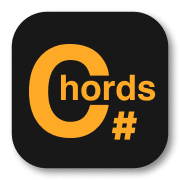
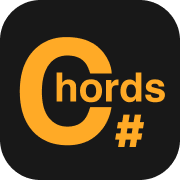
Updates

diff --git a/sw.js b/sw.js
@@ -1,1 +1,1 @@
-if(!self.define){let e,i={};const s=(s,n)=>(s=new URL(s+".js",n).href,i[s]||new Promise((i=>{if("document"in self){const e=document.createElement("script");e.src=s,e.onload=i,document.head.appendChild(e)}else e=s,importScripts(s),i()})).then((()=>{let e=i[s];if(!e)throw new Error(`Module ${s} didn’t register its module`);return e})));self.define=(n,r)=>{const t=e||("document"in self?document.currentScript.src:"")||location.href;if(i[t])return;let o={};const l=e=>s(e,t),c={module:{uri:t},exports:o,require:l};i[t]=Promise.all(n.map((e=>c[e]||l(e)))).then((e=>(r(...e),o)))}}define(["./workbox-5ffe50d4"],(function(e){"use strict";self.skipWaiting(),e.clientsClaim(),e.precacheAndRoute([{url:"404.html",revision:"725e0890ec316141128c754c049396fc"},{url:"assets/index-BB5WNJlu.css",revision:null},{url:"assets/index-DqNKStQ0.js",revision:null},{url:"index.html",revision:"6f8ea84c2d76ff55843b514f44d5b48b"},{url:"registerSW.js",revision:"6a678f2427ee8ae081667b7289d221f7"},{url:"manifest.webmanifest",revision:"c6541121ce6d95939ec7b48416c76c50"}],{}),e.cleanupOutdatedCaches(),e.registerRoute(new e.NavigationRoute(e.createHandlerBoundToURL("index.html")))}));
+if(!self.define){let e,i={};const s=(s,n)=>(s=new URL(s+".js",n).href,i[s]||new Promise((i=>{if("document"in self){const e=document.createElement("script");e.src=s,e.onload=i,document.head.appendChild(e)}else e=s,importScripts(s),i()})).then((()=>{let e=i[s];if(!e)throw new Error(`Module ${s} didn’t register its module`);return e})));self.define=(n,r)=>{const t=e||("document"in self?document.currentScript.src:"")||location.href;if(i[t])return;let o={};const c=e=>s(e,t),l={module:{uri:t},exports:o,require:c};i[t]=Promise.all(n.map((e=>l[e]||c(e)))).then((e=>(r(...e),o)))}}define(["./workbox-5ffe50d4"],(function(e){"use strict";self.skipWaiting(),e.clientsClaim(),e.precacheAndRoute([{url:"404.html",revision:"725e0890ec316141128c754c049396fc"},{url:"assets/index-BB5WNJlu.css",revision:null},{url:"assets/index-DqNKStQ0.js",revision:null},{url:"index.html",revision:"ce9fd6e589a0d1536cf031c372cbad5e"},{url:"registerSW.js",revision:"6a678f2427ee8ae081667b7289d221f7"},{url:"manifest.webmanifest",revision:"c6541121ce6d95939ec7b48416c76c50"}],{}),e.cleanupOutdatedCaches(),e.registerRoute(new e.NavigationRoute(e.createHandlerBoundToURL("index.html")))}));

diff --git a/index.html b/index.html
@@ -7,7 +7,7 @@
     <title>Chords</title>
     
     <!-- Для iOS -->
-    <link rel="apple-touch-icon" sizes="180x180" href="/chords/assets/icon-180x180-CEKyq9fd.png">
+    <link rel="apple-touch-icon" sizes="180x180" href="/chords/icon-180x180.png">
 
     <!-- Safari: цвет статус-бара -->
     <meta name="apple-mobile-web-app-capable" content="yes">
